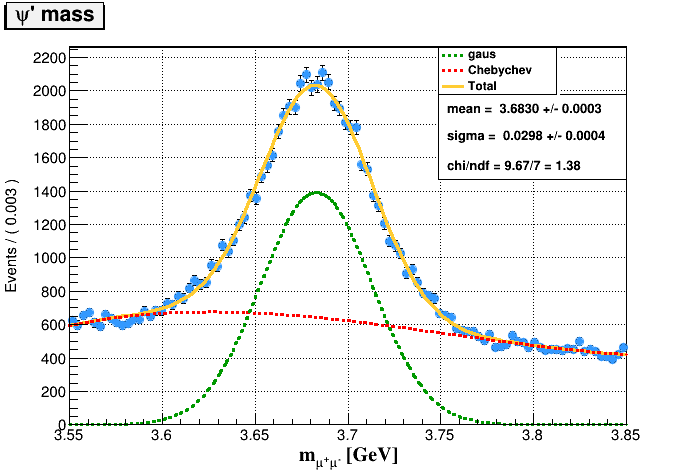
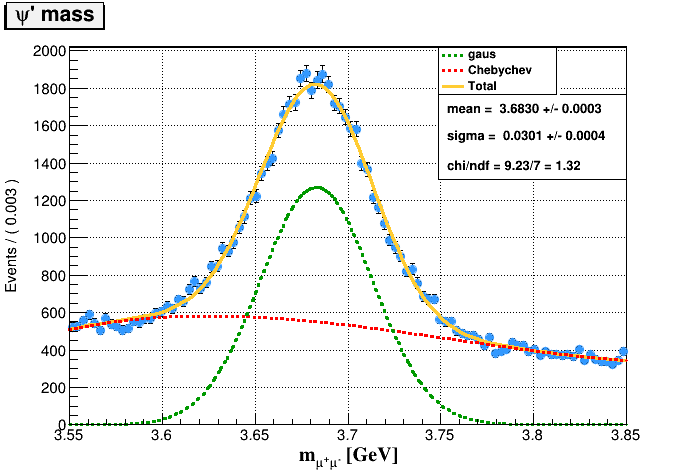
Travis and Docs

diff --git a/test/test_tools.py b/test/test_tools.py
@@ -63,6 +63,8 @@ def create_example():
 
 class ZAsymmetryTest(unittest.TestCase):
     """Define a class with the tests."""
+
+    # Test case
     pt, eta, phi, mass, charge = create_example()
     dilepton = ROOT.dilepton_vec(pt[0], eta[0], phi[0], mass[0], pt[1], \
         eta[1], phi[1], mass[1])
@@ -70,13 +72,12 @@ class ZAsymmetryTest(unittest.TestCase):
         eta[1], phi[1], mass[1])
     weights = ROOT.weights(dilepton[0], dilepton[3], cos_rap[0])
 
+    # Actual tests
+    
     def test_dilepton_vec(self):
         """Test on \"dilepton_vec\" function."""
 
         logger.info("Test on \"dilepton_vec\" function...")
-        # pt, eta, phi, mass, charge = create_example()
-        # dilepton = ROOT.dilepton_vec(pt[0], eta[0], phi[0], mass[0], pt[1], \
-        #     eta[1], phi[1], mass[1])
         self.assertAlmostEqual(self.dilepton[0], 34.4752, 4)
         self.assertAlmostEqual(self.dilepton[1], 2.87066, 4)
         self.assertAlmostEqual(self.dilepton[2], -2.66773, 4)
@@ -87,9 +88,6 @@ class ZAsymmetryTest(unittest.TestCase):
         """Test on \"cos_rapidity\" function."""
 
         logger.info("Test on \"cos_rapidity\" function...")
-        #pt, eta, phi, mass, charge = create_example()
-        # cos_rap = ROOT.cos_rapidity(pt[0], eta[0], phi[0], mass[0], charge[0], pt[1], \
-        #     eta[1], phi[1], mass[1])
         self.assertAlmostEqual(self.cos_rap[0], -0.48296, 5)
         self.assertAlmostEqual(self.cos_rap[1], 1.82757, 5)
 
@@ -98,12 +96,6 @@ class ZAsymmetryTest(unittest.TestCase):
         """Test on \"weights\" function."""
 
         logger.info("Test on \"weights\" function...")
-        # pt, eta, phi, mass, charge = create_example()
-        # dilepton = ROOT.dilepton_vec(pt[0], eta[0], phi[0], mass[0], pt[1], \
-        #     eta[1], phi[1], mass[1])
-        # cos_rap = ROOT.cos_rapidity(pt[0], eta[0], phi[0], mass[0], charge[0], pt[1], \
-        #     eta[1], phi[1], mass[1])
-        # weights = ROOT.weights(dilepton[0], dilepton[3], cos_rap[0])
         self.assertAlmostEqual(self.weights[0], 0.05956, 5)
         self.assertAlmostEqual(self.weights[1], 0.15429, 5)
 

diff --git a/Z_asymmetry/Z_asymmetry.py b/Z_asymmetry/Z_asymmetry.py
@@ -70,8 +70,8 @@ RAPIDITY_BIN=np.array([0, .4, .8, 1.2, 1.6, 2.0, 2.4], dtype=float)
 
 def retrieve_dataset(findex, type_d):
     """
-    The function takes as argument the file index with all name of root files
-    of the chosen dataset to analyze and its type (e.g. "MC" or "data").
+    The function takes as arguments the file index with the names of all root
+    files in the dataset to analyze and its type (e.g. "MC" or "data").
     (The file index has to be downloaded or created manually.)
     Three lists and a standard vector are returned in order to save the time
     needed to analyze each file, its number of events, the name of the
@@ -81,13 +81,13 @@ def retrieve_dataset(findex, type_d):
     :type findex: string of txt file, required
     :param type_d: type of file (e.g. "MC" or "data")
     :type type_d: string, required
-    :return files: list of the analyzed files
+    :return files: analyzed files
     :rtype files: standard vector of string
-    :return timef: list of time elpased analyzing each file
+    :return timef: time elpased analyzing each file
     :rtype timef: list
-    :return Nf: list of events analyzed for each file
+    :return Nf: events analyzed for each file
     :rtype Nf: list
-    :return typef: list of data types
+    :return typef: data types
     :rtype typef: list
 
     """
@@ -121,10 +121,10 @@ def retrieve_dataset(findex, type_d):
 
 def z_main(url, iteration, run):
     """
-    The function create an RDataFrame to make the selection of the good events
-    for the analysis, to compute some useful quantities and store them in new
-    columns. It returns the string of the root file created by a snapshot only
-    with the columns needed.
+    The function creates an RDataFrame to select good events for the analysis,
+    to compute some useful quantities and store them in new columns.
+    It returns the string of the root file created by a snapshot, containing
+    only the columns needed.
 
     :param url: url of the root file to upload from the web.
     :type url: url of root file, required.

diff --git a/dimuon_invm/dimuon_invm.py b/dimuon_invm/dimuon_invm.py
@@ -179,11 +179,11 @@ def mumu_eta(infile, mu_cached=None):
     if mu_cached is None:
         t_name = infile.replace(".root", "")
         rdf = ROOT.RDataFrame(t_name,infile)
-        h_eta = rdf.Histo1D(ROOT.RDF.TH1DModel("Dimuon eta", "Dimuon eta",
-            160, -4, 4), "Dimuon_eta")
+        h_eta = rdf.Filter("Dimuon_pt<120").Histo1D(ROOT.RDF.TH1DModel("Dimuon eta", "Dimuon eta",
+            160, -7, 7), "Dimuon_eta")
     else:
-        h_eta = mu_cached.Histo1D(ROOT.RDF.TH1DModel("Dimuon eta", "Dimuon eta",
-            160, -4, 4), "Dimuon_eta")
+        h_eta = mu_cached.Filter("Dimuon_pt<120").Histo1D(ROOT.RDF.TH1DModel("Dimuon eta", "Dimuon eta",
+            160, -7, 7), "Dimuon_eta")
 
     # Styling
     ROOT.gStyle.SetOptStat("e")
@@ -233,7 +233,7 @@ def resonance_fit(infile, particle="all"):
     tree = f.Get(f"{tree_name}")
     logger.debug("The tree is created.")
 
-    low_edge_pt = 0
+    low_edge_pt = 20
     upper_edge_pt = 120
     eta_edge = 1.2
 
@@ -671,8 +671,9 @@ if __name__ == "__main__":
 
     for part in args.particle:
         try:
-            #resonance_fit(outfile_m, part)
-            resonance_prop(outfile_m, dimu_cached, part)
+            print("a")
+            resonance_fit(outfile_m, part)
+            #resonance_prop(outfile_m, dimu_cached, part)
         except SyntaxError:
             logger.error(f"Invalid argument: \"{part}\"!\nPossible arguments are:"
                 "\"eta\", \"rho\",\"omega\",\"phi\", \"J-psi\", \"psi'\", \"Y\","
